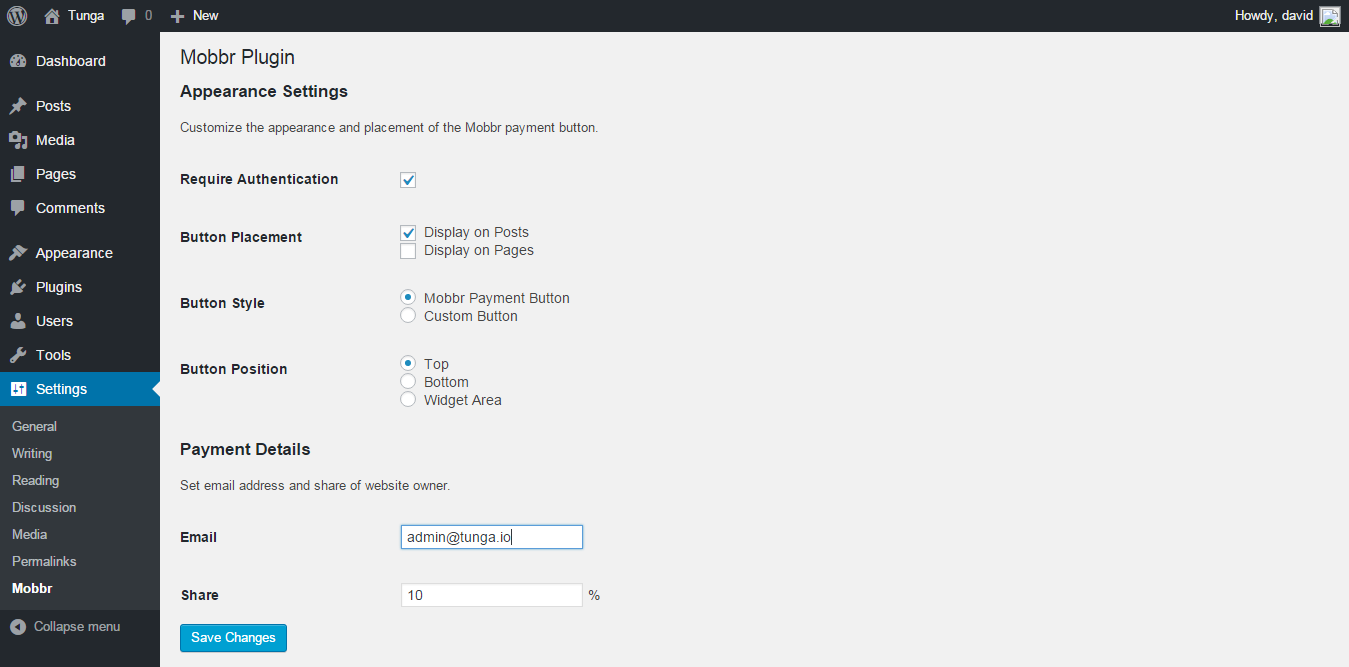
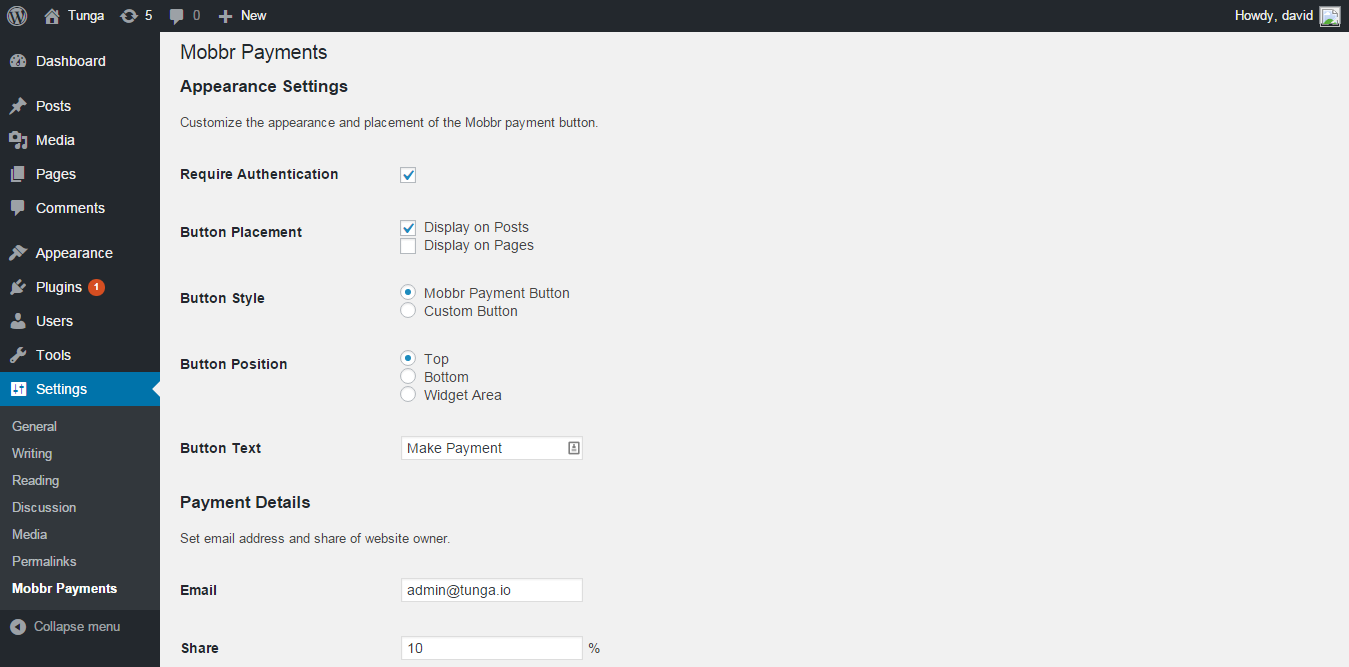
Added settings link to admin, refactored plugin name and updated screenshots

diff --git a/mobbr.admin.php b/mobbr.admin.php
@@ -3,13 +3,13 @@ require_once("mobbr.config.php");
 require_once("mobbr.utils.php");
 
 function plugin_admin_add_page() {
-    add_options_page('Mobbr', 'Mobbr', 'manage_options', 'mobbr', 'mobbr_plugin_options_page');
+    add_options_page('Mobbr Payments', 'Mobbr Payments', 'manage_options', 'mobbr-payments', 'mobbr_plugin_options_page');
 }
 
 function mobbr_plugin_options_page() {
     ?>
     <div>
-        <h2>Mobbr Plugin</h2>
+        <h2>Mobbr Payments</h2>
         <form action="options.php" method="post">
             <?php settings_fields('mobbr_plugin_options'); ?>
             <?php do_settings_sections('mobbr_plugin'); ?>

diff --git a/mobbr.filters.php b/mobbr.filters.php
@@ -14,3 +14,8 @@ function add_mobbr_button_to_content($content) {
     if($can_show_button && isset($options['button_position']) && $options['button_position'] == MOBBR_BUTTON_POSITION_BOTTOM)
         $widget->widget(null, null);
 }
+
+function mobbr_plugin_action_links( $links ) {
+    $links[] = '<a href="'.esc_url(get_admin_url(null, 'options-general.php?page=mobbr-payments')).'">Settings</a>';
+    return $links;
+}

diff --git a/mobbr.php b/mobbr.php
@@ -48,3 +48,5 @@ $options = get_mobbr_plugin_options();
 if($options['require_auth']) {
     add_action('wp_ajax_nopriv_add_post_meta', 'ajax_save_post_participation_metadata');
 }
+
+add_filter('plugin_action_links_' . plugin_basename(__FILE__), 'mobbr_plugin_action_links');
